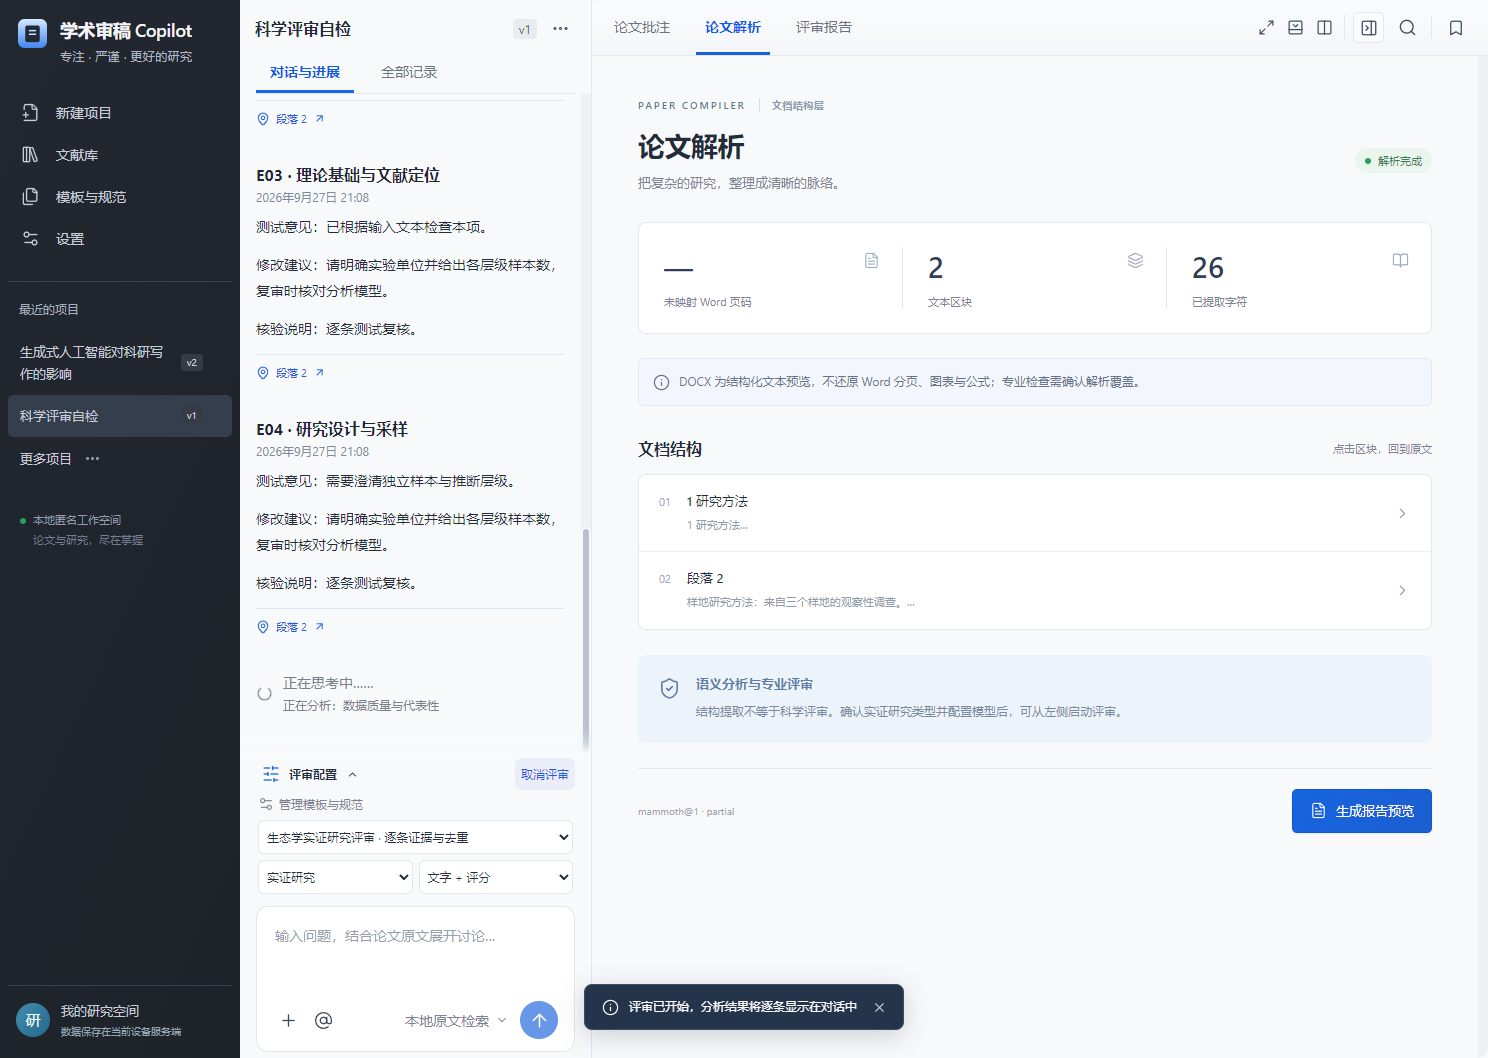
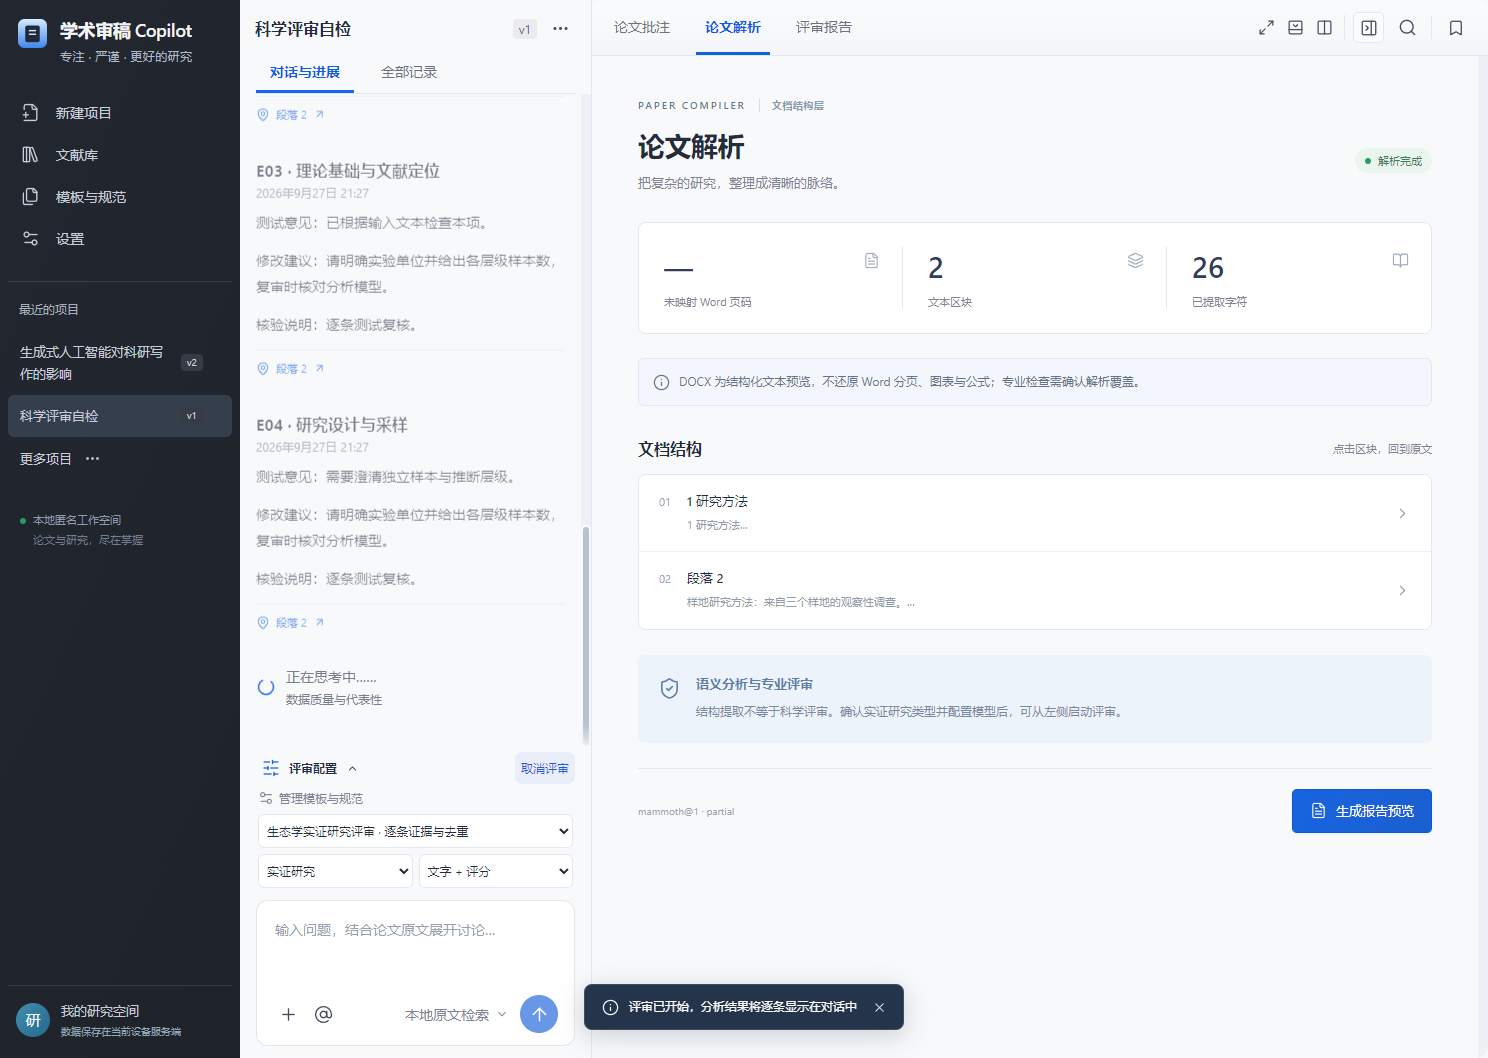
Fix visible thinking indicators and remove Copilot reply bubbles

diff --git a/src/App.vue b/src/App.vue
@@ -200,6 +200,27 @@ const activeChat = computed(() =>
     ? pendingChat.value
     : null,
 );
+const startingReview = ref<{ projectId: string; versionId: string } | null>(null);
+const runningReview = computed(() =>
+  version.value?.runs.find((r) => r.scope === 'scientific-trial' && r.status === 'running'),
+);
+const reviewThinking = computed(
+  () =>
+    Boolean(runningReview.value) ||
+    (startingReview.value?.projectId === project.value?.id &&
+      startingReview.value?.versionId === version.value?.id &&
+      Boolean(startingReview.value)),
+);
+async function showLatestConversation() {
+  await nextTick();
+  timeline.value?.scrollTo({ top: timeline.value.scrollHeight });
+}
+watch(
+  () => (reviewThinking.value ? `${project.value?.id}:${version.value?.id}` : ''),
+  (active) => {
+    if (active) void showLatestConversation();
+  },
+);
 let chatController: AbortController | null = null;
 const projectMenuId = ref(''),
   projectMenuPosition = ref({ left: '0px', top: '0px' });
@@ -579,6 +600,9 @@ async function startReview(retryId?: string) {
   const settings = { ...project.value.settings, confirmed: true };
   settingsRevision++;
   busy.value = true;
+  startingReview.value = { projectId: id, versionId };
+  timelineTab.value = 'chat';
+  mobilePane.value = 'chat';
   try {
     await safe(async () => {
       // Starting the review confirms the visible selection, including an unchanged default.
@@ -592,6 +616,7 @@ async function startReview(retryId?: string) {
       notify('评审已开始，分析结果将逐条显示在对话中');
     });
   } finally {
+    startingReview.value = null;
     busy.value = false;
   }
 }
@@ -624,6 +649,8 @@ async function sendMessage() {
     text = message.value;
   sending.value = true;
   pendingChat.value = { projectId: id, versionId, question: text, answer: '', error: '' };
+  mobilePane.value = 'chat';
+  void showLatestConversation();
   const pending = pendingChat.value;
   chatController = new AbortController();
   await safe(async () => {
@@ -1053,17 +1080,17 @@ onUnmounted(() => {
               </button>
             </div>
           </article>
+          <div v-if="reviewThinking" class="review-thinking" role="status" aria-live="polite">
+            <Icon name="loading" class="spin" :size="20" />
+            <span
+              >正在思考中……<small>{{ runningReview?.stage || '正在启动评审' }}</small></span
+            >
+          </div>
           <article
             v-for="run in version.runs.filter((r) => r.scope === 'scientific-trial')"
             :key="`progress-${run.id}`"
             class="review-conversation"
           >
-            <div v-if="run.status === 'running'" class="review-thinking" role="status">
-              <Icon name="loading" class="spin" :size="17" />
-              <span
-                >正在思考中……<small v-if="run.stage">正在分析：{{ run.stage }}</small></span
-              >
-            </div>
             <p
               v-for="module in run.modules?.filter((m) => m.status === 'failed')"
               :key="module.id"
@@ -1082,10 +1109,15 @@ onUnmounted(() => {
               <strong>Copilot</strong>
               <div class="message-card">
                 <MessageContent v-if="activeChat.answer" :text="activeChat.answer" /><span
-                  v-else
+                  v-else-if="sending && !activeChat.error"
                   class="review-thinking"
-                  ><Icon name="loading" class="spin" :size="17" />正在思考中……</span
-                ><span v-if="sending" class="stream-cursor">▋</span>
+                  role="status"
+                  ><Icon name="loading" class="spin" :size="20" />正在思考中……</span
+                ><span
+                  v-if="sending && activeChat.answer && !activeChat.error"
+                  class="stream-cursor"
+                  >▋</span
+                >
               </div>
               <p v-if="activeChat.error" class="notice error-notice" role="alert">
                 {{ activeChat.error }}（本次回答未保存，可重新发送。）
@@ -1264,9 +1296,7 @@ onUnmounted(() => {
             </div>
           </form>
         </section>
-        <div v-if="project?.demo" class="composer-footnote">
-          演示空间 · 内容仅用于产品体验
-        </div>
+        <div v-if="project?.demo" class="composer-footnote">演示空间 · 内容仅用于产品体验</div>
       </div>
     </section>
     <div

diff --git a/tests/e2e/workspace.spec.js b/tests/e2e/workspace.spec.js
@@ -136,11 +136,17 @@ test('hover project menu targets the chosen project, with pin, rename, archive, 
 test('model settings test, save, preserve a hidden key, and route chat through the configured provider', async ({
   page,
 }) => {
+  let releaseFirst;
+  const firstContent = new Promise((resolve) => {
+    releaseFirst = resolve;
+  });
   const provider = createServer(async (req, res) => {
     let body = '';
     for await (const chunk of req) body += chunk;
     if (JSON.parse(body).stream) {
       res.setHeader('Content-Type', 'text/event-stream');
+      res.flushHeaders();
+      await firstContent;
       res.write(
         'data: ' +
           JSON.stringify({
@@ -184,11 +190,23 @@ test('model settings test, save, preserve a hidden key, and route chat through t
     await page.getByRole('button', { name: '关闭弹窗' }).click();
     await page.getByRole('textbox', { name: '询问 Copilot' }).fill('请分析本文方法');
     await page.getByRole('button', { name: '发送消息' }).click();
+    const thinking = page.locator('.streaming-message .review-thinking');
+    await expect(thinking).toContainText('正在思考中');
+    await expect(thinking).toBeInViewport();
+    const spinner = thinking.locator('svg');
+    await expect(spinner).toHaveCSS('animation-name', 'spin');
+    const before = await spinner.evaluate((el) => getComputedStyle(el).transform);
+    await expect
+      .poll(() => spinner.evaluate((el) => getComputedStyle(el).transform))
+      .not.toBe(before);
+    await page.screenshot({ path: 'docs/screenshots/chat-thinking.png', fullPage: true });
+    releaseFirst();
     await expect(
       page.locator('.streaming-message strong').filter({ hasText: '第一段已到达' }),
     ).toBeVisible();
     await expect(page.getByRole('button', { name: '发送消息' })).toBeDisabled();
     await expect(page.locator('.streaming-message h2')).toHaveText('方法分析');
+    await expect(thinking).toHaveCount(0);
     await expect(page.locator('.streaming-message .message-card')).not.toContainText('**');
     await page.screenshot({ path: 'docs/screenshots/streaming-chat.png', fullPage: true });
     await expect(page.locator('.event-assistant')).toContainText('模型建议 · 待核验');
@@ -225,6 +243,7 @@ test('model settings test, save, preserve a hidden key, and route chat through t
     await page.getByRole('button', { name: '清除配置' }).click();
     await expect(page.locator('.model-settings [role=status]')).toContainText('已删除');
   } finally {
+    releaseFirst();
     await new Promise((resolve) => provider.close(resolve));
   }
 });
@@ -390,6 +409,8 @@ test('scientific review runs through real API, exposes evidence and exports part
     await page.getByLabel('评审输出方式').selectOption('scored');
     await page.getByRole('button', { name: '开始评审', exact: true }).click();
     await expect(page.locator('.review-thinking')).toContainText('正在思考中');
+    await expect(page.locator('.review-thinking')).toBeInViewport();
+    await expect(page.locator('.review-thinking svg')).toHaveCSS('animation-name', 'spin');
     await expect(page.locator('.event-review-result')).toHaveCount(6);
     await expect(page.locator('.event-review-result').last()).toContainText('E04');
     await expect(page.locator('.review-module-list')).toHaveCount(0);

diff --git a/tests/e2e/review-settings.spec.js b/tests/e2e/review-settings.spec.js
@@ -18,6 +18,37 @@ async function createReadyProject(page) {
 }
 
 // Intercept only review execution: settings still persist through the real API.
+test('review shows a rotating waiting indicator before the start request returns and clears it on failure', async ({
+  page,
+}) => {
+  await createReadyProject(page);
+  let release;
+  const pending = new Promise((resolve) => {
+    release = resolve;
+  });
+  await page.route('**/api/projects/*/review', async (route) => {
+    await pending;
+    await route.fulfill({ status: 500, json: { error: '评审启动失败，请重试' } });
+  });
+  try {
+    await page.getByRole('button', { name: '开始评审', exact: true }).click();
+    const thinking = page.locator('.review-thinking');
+    await expect(thinking).toContainText('正在思考中');
+    await expect(thinking).toBeInViewport();
+    const spinner = thinking.locator('svg');
+    await expect(spinner).toHaveCSS('animation-name', 'spin');
+    const before = await spinner.evaluate((el) => getComputedStyle(el).transform);
+    await expect
+      .poll(() => spinner.evaluate((el) => getComputedStyle(el).transform))
+      .not.toBe(before);
+    await page.screenshot({ path: 'docs/screenshots/review-thinking.png', fullPage: true });
+  } finally {
+    release();
+  }
+  await expect(page.locator('.review-thinking')).toHaveCount(0);
+  await expect(page.locator('.toast-message')).toContainText('评审启动失败');
+});
+
 test('starting confirms an unchanged default type and preserves output choice', async ({
   page,
 }) => {
@@ -43,7 +74,7 @@ test('starting confirms an unchanged default type and preserves output choice', 
     confirmed: true,
     outputMode: 'scored',
   });
-  await expect(page.getByRole('status')).not.toContainText('请确认稿件类型');
+  await expect(page.locator('.toast-message')).not.toContainText('请确认稿件类型');
 });
 
 test('review cannot start before a pending settings save completes', async ({ page }) => {
@@ -65,6 +96,7 @@ test('review cannot start before a pending settings save completes', async ({ pa
   await expect(page.getByLabel('稿件类型', { exact: true })).toBeDisabled();
   release();
   await expect(page.getByRole('button', { name: '开始评审', exact: true })).toBeEnabled();
+  await expect(page.locator('.review-thinking')).toHaveCount(0);
 });
 
 test('failed confirmation save prevents review execution', async ({ page }) => {
@@ -79,7 +111,8 @@ test('failed confirmation save prevents review execution', async ({ page }) => {
     await route.fulfill({ status: 500, json: { error: '设置保存失败' } });
   });
   await page.getByRole('button', { name: '开始评审', exact: true }).click();
-  await expect(page.getByRole('status')).toContainText('设置保存失败');
+  await expect(page.locator('.toast-message')).toContainText('设置保存失败');
+  await expect(page.locator('.review-thinking')).toHaveCount(0);
   expect(reviews).toBe(0);
   await expect(page.getByRole('button', { name: '开始评审', exact: true })).toBeEnabled();
 });

diff --git a/server/models.js b/server/models.js
@@ -272,7 +272,7 @@ export function createModelService(db, directory) {
         .filter((m) => ['user', 'assistant'].includes(m.kind) && m.text)
         .slice(-6)
         .map((m) => ({ role: m.kind, content: m.text.slice(0, 2000) }));
-      options.onDelta?.('【模型建议 · 待核验】\n\n');
+      let started = false;
       const text = await complete(
         config,
         [
@@ -288,7 +288,18 @@ export function createModelService(db, directory) {
           ...history,
           { role: 'user', content: question },
         ],
-        options,
+        {
+          ...options,
+          onDelta: options.onDelta
+            ? (delta) => {
+                if (!started) {
+                  options.onDelta('【模型建议 · 待核验】\n\n');
+                  started = true;
+                }
+                options.onDelta(delta);
+              }
+            : undefined,
+        },
       );
       if (truncated)
         options.onDelta?.('\n\n上下文限制：本次仅发送论文前 24000 个字符，不能据此判断全文缺失。');

diff --git a/src/style.css b/src/style.css
@@ -592,8 +592,11 @@ kbd {
   overflow-wrap: anywhere;
 }
 .event-assistant .message-card {
-  background: #f1f6ff;
-  border-color: #dbe6f8;
+  background: transparent;
+  border: 0;
+  border-radius: 0;
+  padding: 0;
+  box-shadow: none;
 }
 .citation-link {
   display: flex;
@@ -3652,6 +3655,11 @@ progress {
   display: block;
   margin-top: 5px;
   font-size: 12px;
+}
+.review-thinking > .spin {
+  flex-shrink: 0;
+  color: var(--blue);
+  transform-origin: center;
 }
 .event-review-result .event-text {
   line-height: 1.85;

diff --git a/docs/verification.md b/docs/verification.md
@@ -1,5 +1,12 @@
 # 自检记录
 
+## 2026-09-27 等待动画可见性修复
+
+- 根因：聊天接口在真正模型正文到达前先发送固定提示，导致前端提前结束等待；评审提示只在服务端任务创建后出现，且可能位于聊天滚动区外。
+- 修复：固定提示随第一段模型正文发送；评审从点击启动时显示“正在思考中……”与旋转图标，并滚动到最新对话，项目/版本切换不会串状态。失败时清理等待状态，不残留转圈或输出光标。
+- 浏览器验证延迟首段模型输出、延迟启动响应、启动失败及持续评审：断言提示位于可视区域，SVG 的动画名为 spin，实际 transform 随时间变化，首段正文到达后提示消失。相关 7 个浏览器场景通过（设置文件 5 项、聊天/评审流程 2 项），模型单测 5 项及生产构建通过。
+- 截图：[聊天等待](screenshots/chat-thinking.png)、[评审启动等待](screenshots/review-thinking.png)。测试使用可控制延迟的本地模型服务，未为验证动画重新调用付费模型。
+
 ## 2026-09-27 全文图文评审
 
 最新逻辑、真实论文重跑记录、API 用量与验证边界见 [全文图文评审验证](full-visual-review-verification.md)。该轮覆盖整篇 PDF 的 19 页，另作 9 个图表区域放大核查，科学评审与独立复核均可接收原图。
